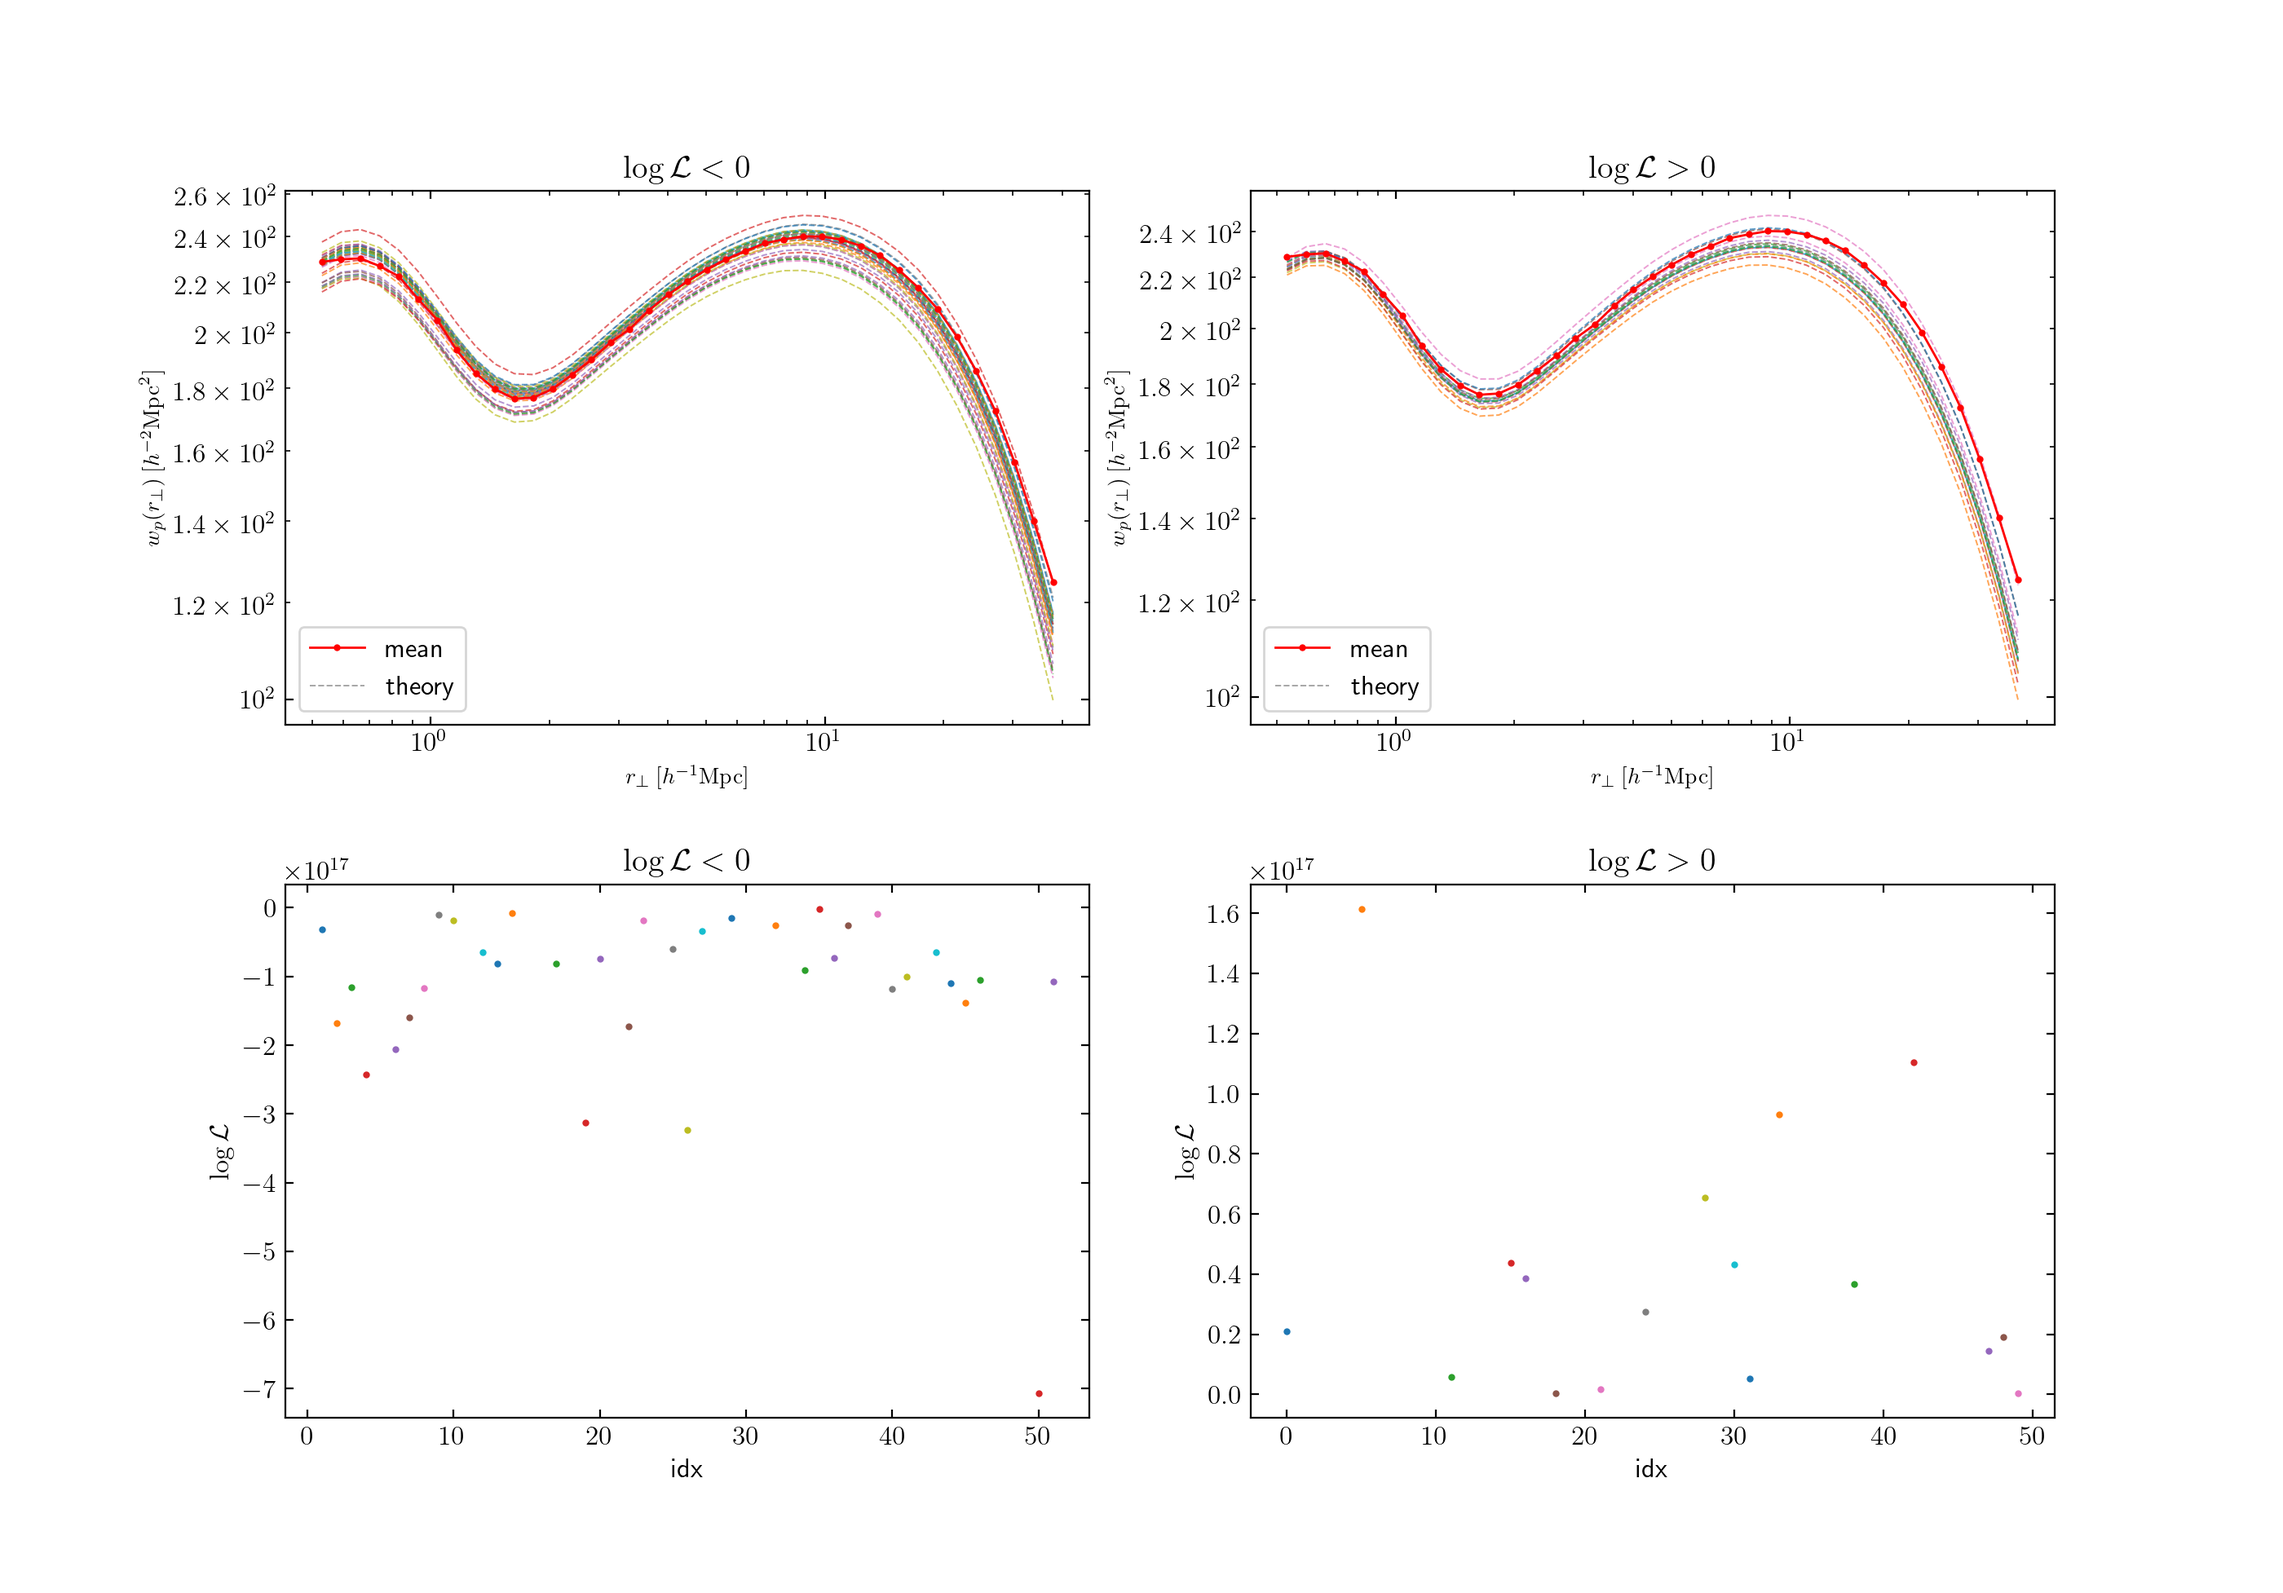
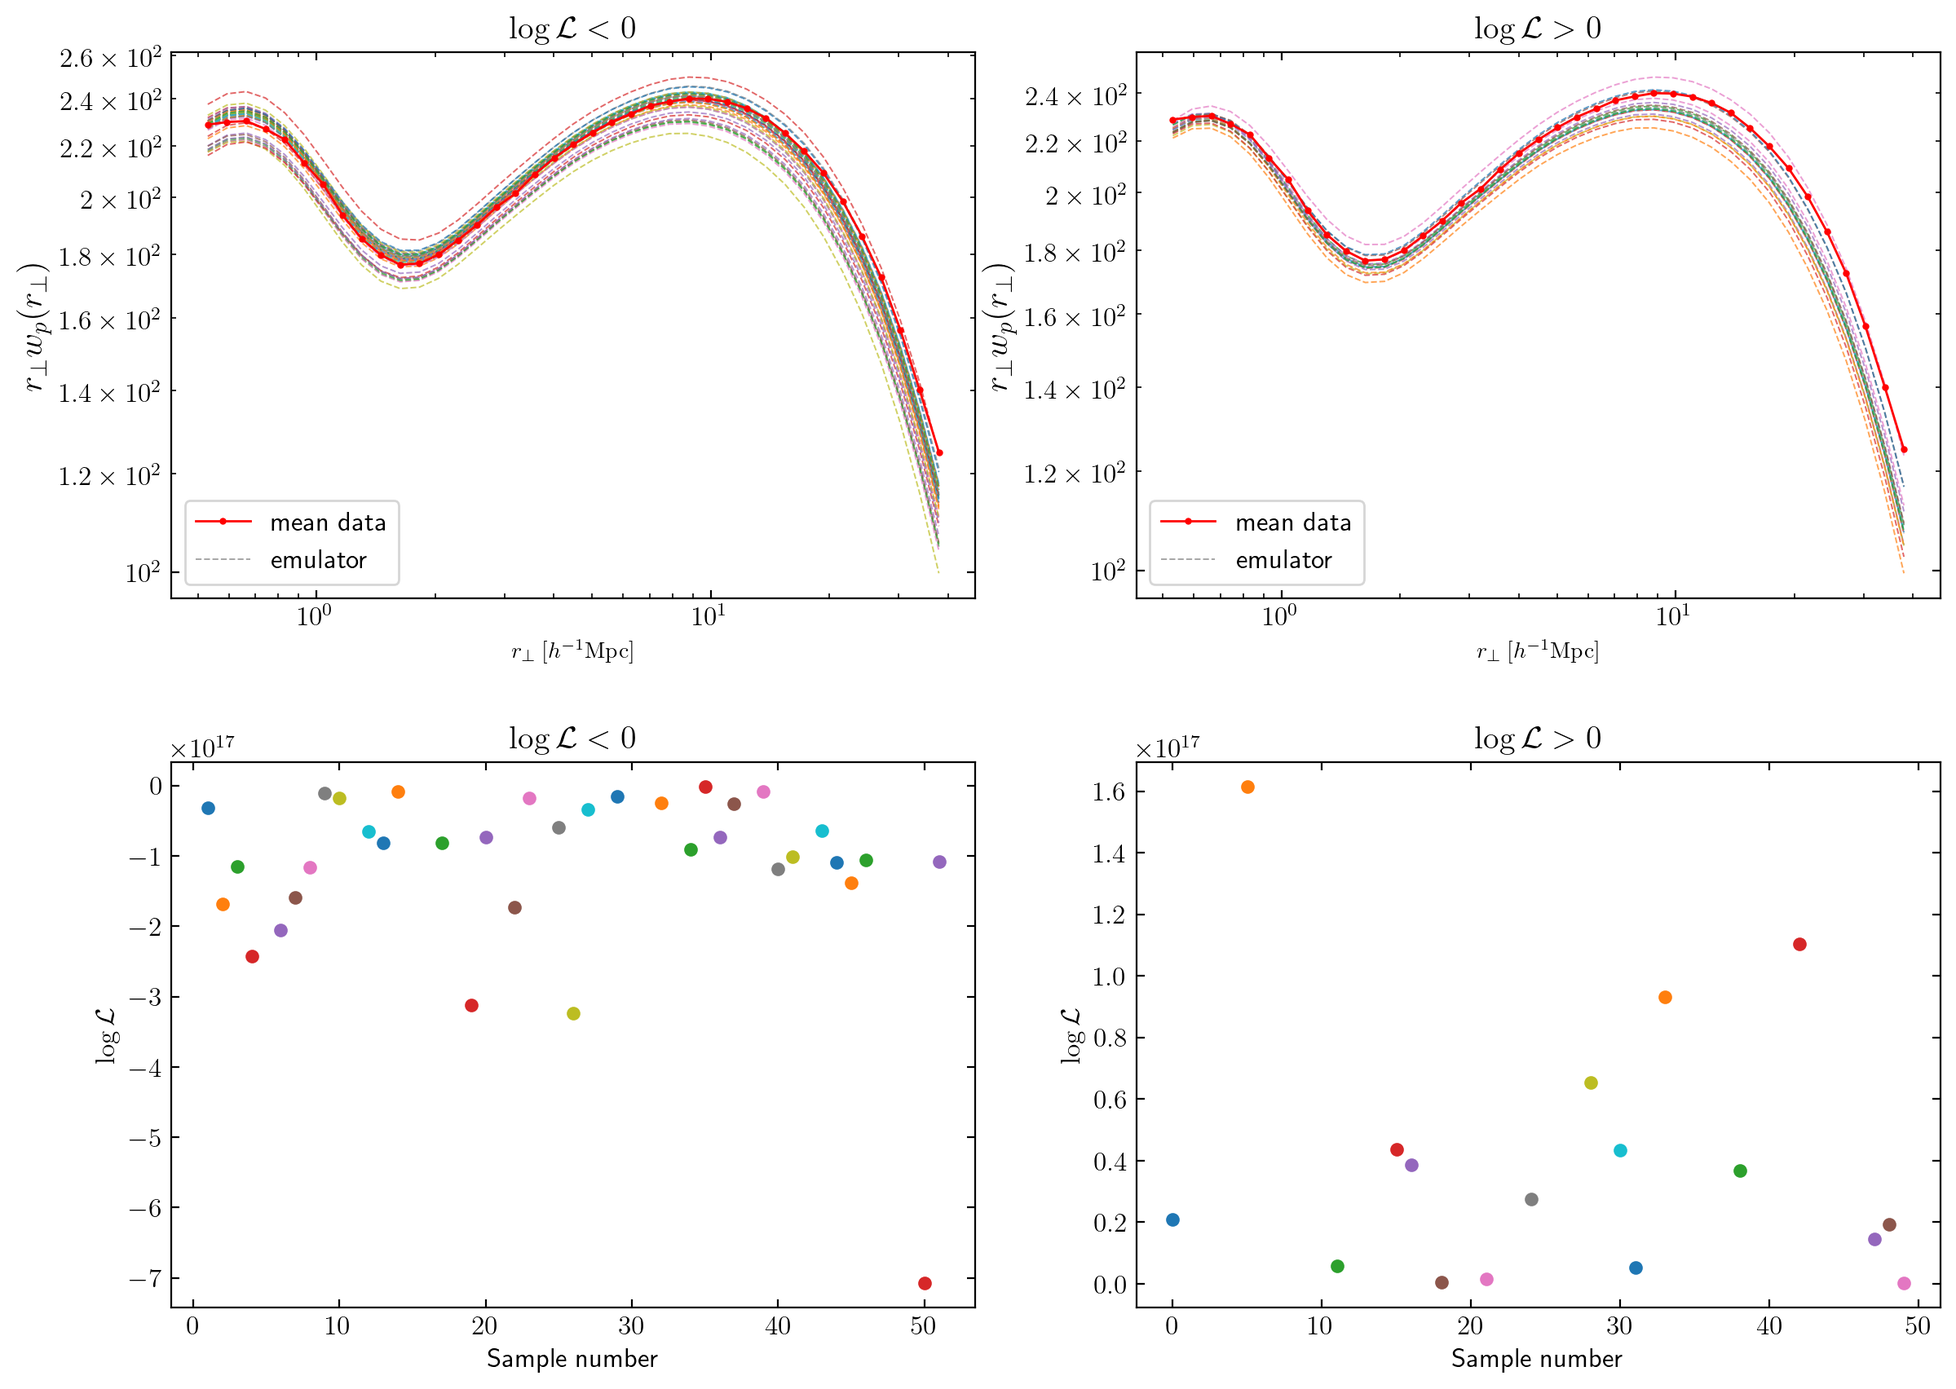
update plots

diff --git a/inference.py b/inference.py
@@ -217,15 +217,14 @@ class Likelihood:
         initial_step   = init_param_values + stddev_factor * np.random.normal(0, 1, size=(self.nwalkers, self.nparams))
 
         r_perp = self.r_perp 
-        # fig, ax = plt.subplots(ncols=2, figsize=(12,8))
         fig, ax = plt.subplots(2, 2, figsize=(14,10))
 
 
-        ax[0][0].plot(r_perp, r_perp * self.w_p_data, "o-", color="red", lw=1, ms=2, label="mean", zorder=100)
-        ax[0][1].plot(r_perp, r_perp * self.w_p_data, "o-", color="red", lw=1, ms=2, label="mean", zorder=100)
+        ax[0][0].plot(r_perp, r_perp * self.w_p_data, "o-", color="red", lw=1, ms=2, label="mean data", zorder=100)
+        ax[0][1].plot(r_perp, r_perp * self.w_p_data, "o-", color="red", lw=1, ms=2, label="mean data", zorder=100)
 
-        ax[0][0].plot([], "--", lw=0.7, alpha=0.7, c='gray', label="theory")
-        ax[0][1].plot([], "--", lw=0.7, alpha=0.7, c='gray', label="theory")
+        ax[0][0].plot([], "--", lw=0.7, alpha=0.7, c='gray', label="emulator")
+        ax[0][1].plot([], "--", lw=0.7, alpha=0.7, c='gray', label="emulator")
 
 
         errors   = np.zeros((initial_step.shape[0], len(r_perp)))
@@ -238,25 +237,16 @@ class Likelihood:
             wp_theory = self.get_wp_theory(params)
             err = np.abs(wp_theory / self.w_p_data - 1)
             errors[i] = err 
-            # log_like[i] = self.log_likelihood(params)
             ll, delta = self.log_likelihood(params)
             log_like[i] = ll
             if ll < 0:
                 ax[0][0].plot(r_perp, r_perp * wp_theory, "--", lw=0.7, alpha=0.7)
-                # ax[0][0].plot(r_perp, delta, "o-", lw=0.5, alpha=0.7, ms=2)
-                ax[1][0].plot(*[i, ll], "o", ms=2, lw=0.7)#, label="log_like")
+                ax[1][0].plot(*[i, ll], "o", ms=5, lw=0.7)#, label="log_like")
             else:
                 ax[0][1].plot(r_perp, r_perp * wp_theory, "--", lw=0.7, alpha=0.7)
-                # ax[0][1].plot(r_perp, delta, "o-", lw=0.5, alpha=0.7, ms=2)
-                ax[1][1].plot(*[i, ll], "o", ms=2, lw=0.7)
+                ax[1][1].plot(*[i, ll], "o", ms=5, lw=0.7)
 
 
-
-            # ax.plot(r_perp, wp_theory, "--", lw=0.5, alpha=0.5)
-
-        # print(log_like)
-        # exit()
-        # ax.plot(np.arange(len(log_like)), log_like, "o", ms=2, lw=0.7, label="log_like")
         ax[0][0].set_title(r"$\log \mathcal{L} < 0$")
         ax[1][0].set_title(r"$\log \mathcal{L} < 0$")
 
@@ -278,27 +268,26 @@ class Likelihood:
         ax[0][0].set_xlabel(r"$r_\perp \: [h^{-1} \mathrm{Mpc}]$", fontsize=10)
         ax[0][1].set_xlabel(r"$r_\perp \: [h^{-1} \mathrm{Mpc}]$", fontsize=10)
 
-        ax[1][0].set_xlabel("idx")
-        ax[1][1].set_xlabel("idx")
+        ax[1][0].set_xlabel("Sample number")
+        ax[1][1].set_xlabel("Sample number")
 
-        ax[0][0].set_ylabel(r"$w_p(r_\perp) \: [h^{-2} \mathrm{Mpc}^{2}]$", fontsize=10)
-        ax[0][1].set_ylabel(r"$w_p(r_\perp) \: [h^{-2} \mathrm{Mpc}^{2}]$", fontsize=10)
+        ax[0][0].set_ylabel(r"$r_\perp w_p(r_\perp)$", fontsize=15)
+        ax[0][1].set_ylabel(r"$r_\perp w_p(r_\perp)$", fontsize=15)
         ax[1][0].set_ylabel(r"$\log \mathcal{L}$")
         ax[1][1].set_ylabel(r"$\log \mathcal{L}$")
 
         ax[0][0].legend()
         ax[0][1].legend()
-        # ax[1][0].legend()
 
         # Increase spacing between top and bottom plots
         plt.subplots_adjust(hspace=0.3)
 
-        plt.show()
-        # fig.savefig("figures/likelihood_tests/delta_L.png", dpi=200)
-        # fig.clf()
+        # plt.show()
+        fig.savefig("figures/likelihood_tests/wp_L.png", dpi=200, bbox_inches="tight")
+        fig.clf()
 
 
-        exit()
+        return 
 
         sampler = emcee.EnsembleSampler(
             self.nwalkers, 
@@ -333,19 +322,8 @@ class Likelihood:
         # fig, ax = plt.subplots(ncols=2, figsize=(12,8))
         fig, ax = plt.subplots(2, 2, figsize=(14,10))
 
-
-        # ax[0][0].plot(r_perp, r_perp * self.w_p_data, "o-", color="red", lw=1, ms=2, label="mean", zorder=100)
-        # ax[0][1].plot(r_perp, r_perp * self.w_p_data, "o-", color="red", lw=1, ms=2, label="mean", zorder=100)
-
-        # ax[0][0].plot([], "--", lw=0.7, alpha=0.7, c='gray', label="theory")
-        # ax[0][1].plot([], "--", lw=0.7, alpha=0.7, c='gray', label="theory")
-
-
         errors   = np.zeros((initial_step.shape[0], len(r_perp)))
         log_like = np.zeros(initial_step.shape[0])
-
-        ll_neg = []
-        ll_pos = []
 
         for i, params in enumerate(initial_step):
             wp_theory = self.get_wp_theory(params)
@@ -355,21 +333,13 @@ class Likelihood:
             ll, delta = self.log_likelihood(params)
             log_like[i] = ll
             if ll < 0:
-                # ax[0][0].plot(r_perp, r_perp * wp_theory, "--", lw=0.7, alpha=0.7)
                 ax[0][0].plot(r_perp, delta, "o-", lw=0.5, alpha=0.7, ms=2)
-                ax[1][0].plot(*[i, ll], "o", ms=2, lw=0.7)#, label="log_like")
+                ax[1][0].plot(*[i, ll], "o", ms=5, lw=0.7)#, label="log_like")
             else:
-                # ax[0][1].plot(r_perp, r_perp * wp_theory, "--", lw=0.7, alpha=0.7)
                 ax[0][1].plot(r_perp, delta, "o-", lw=0.5, alpha=0.7, ms=2)
-                ax[1][1].plot(*[i, ll], "o", ms=2, lw=0.7)
+                ax[1][1].plot(*[i, ll], "o", ms=5, lw=0.7)
 
 
-
-            # ax.plot(r_perp, wp_theory, "--", lw=0.5, alpha=0.5)
-
-        # print(log_like)
-        # exit()
-        # ax.plot(np.arange(len(log_like)), log_like, "o", ms=2, lw=0.7, label="log_like")
         ax[0][0].set_title(r"$\log \mathcal{L} < 0$")
         ax[1][0].set_title(r"$\log \mathcal{L} < 0$")
 
@@ -379,20 +349,14 @@ class Likelihood:
 
 
         ax[0][0].set_xscale("log")
-        # ax[0][0].set_yscale("log")
         ax[0][1].set_xscale("log")
-        # ax[0][1].set_yscale("log")
 
-        ax[1][0].set_xscale("linear")
-        ax[1][0].set_yscale("linear")
-        ax[1][1].set_xscale("linear")
-        ax[1][1].set_yscale("linear")
 
         ax[0][0].set_xlabel(r"$r_\perp \: [h^{-1} \mathrm{Mpc}]$", fontsize=10)
         ax[0][1].set_xlabel(r"$r_\perp \: [h^{-1} \mathrm{Mpc}]$", fontsize=10)
 
-        ax[1][0].set_xlabel("idx")
-        ax[1][1].set_xlabel("idx")
+        ax[1][0].set_xlabel("Sample number")
+        ax[1][1].set_xlabel("Sample number")
 
         ax[0][0].set_ylabel(r"$\Delta = (w_p^\mathrm{emul} - \overline{w_p})$", fontsize=15) # \: [h^{-2} \mathrm{Mpc}^{2}]$", fontsize=10)
         ax[0][1].set_ylabel(r"$\Delta = (w_p^\mathrm{emul} - \overline{w_p})$", fontsize=15) # \: [h^{-2} \mathrm{Mpc}^{2}]$", fontsize=10)
@@ -408,11 +372,11 @@ class Likelihood:
         plt.subplots_adjust(hspace=0.3)
 
         # plt.show()
-        fig.savefig("figures/likelihood_tests/delta_L.png", dpi=200)
+        fig.savefig("figures/likelihood_tests/delta_L.png", dpi=200, bbox_inches="tight")
         fig.clf()
 
 
-        exit()
+        return 
 
 
 
@@ -425,8 +389,8 @@ TODO:
 """
 
 L4 = Likelihood(walkers_per_param=4)
-L4.plot_delta_likelihood("test.hdf5", stddev_factor=1e-3, max_n=int(10))
-# L4.plot_wp_likelihood("test.hdf5", stddev_factor=1e-3, max_n=int(10))
+# L4.plot_delta_likelihood("test.hdf5", stddev_factor=1e-3, max_n=int(10))
+L4.plot_wp_likelihood("test.hdf5", stddev_factor=1e-3, max_n=int(10))
 
 # L8 = Likelihood(walkers_per_param=8)
 # L12 = Likelihood(walkers_per_param=12)
